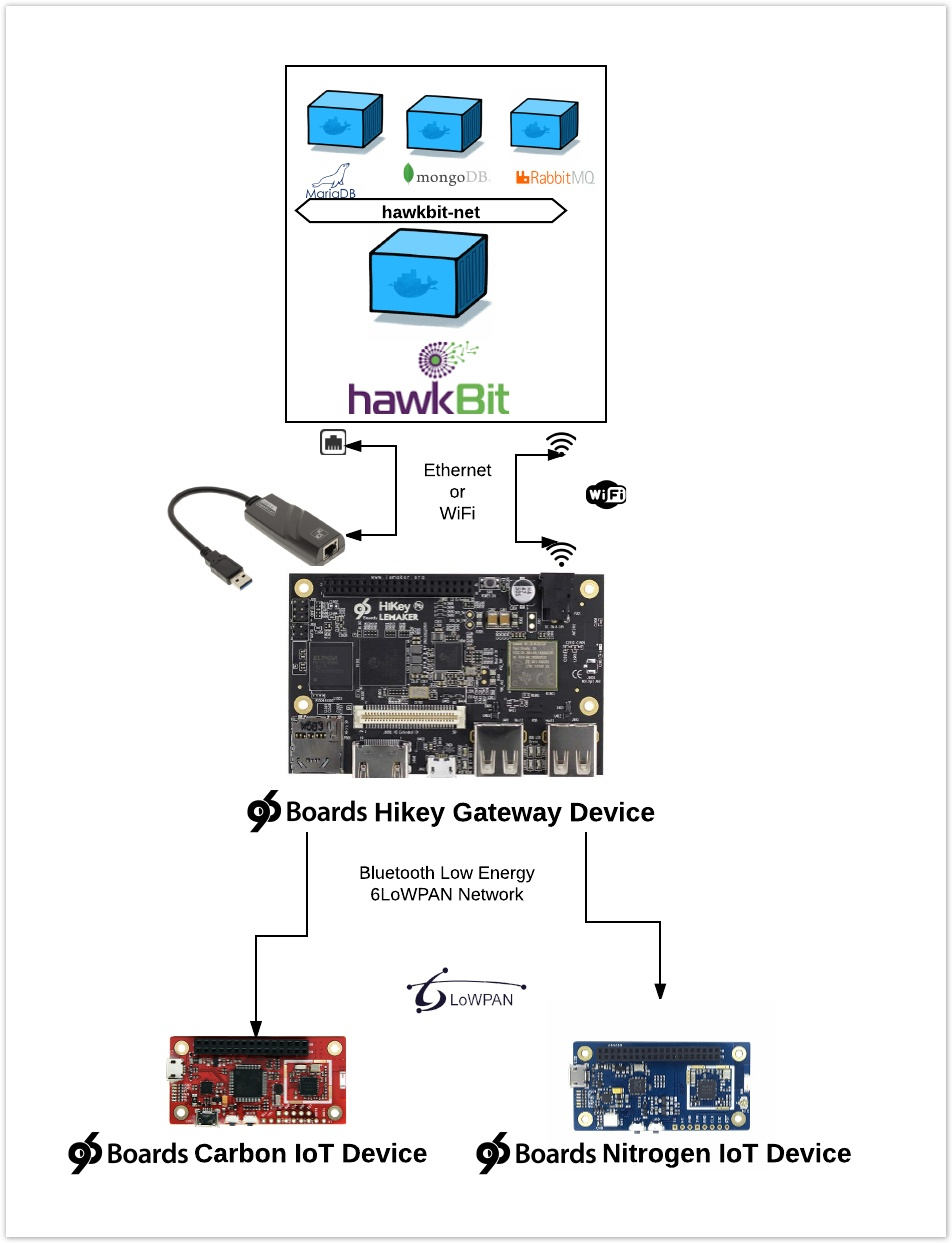
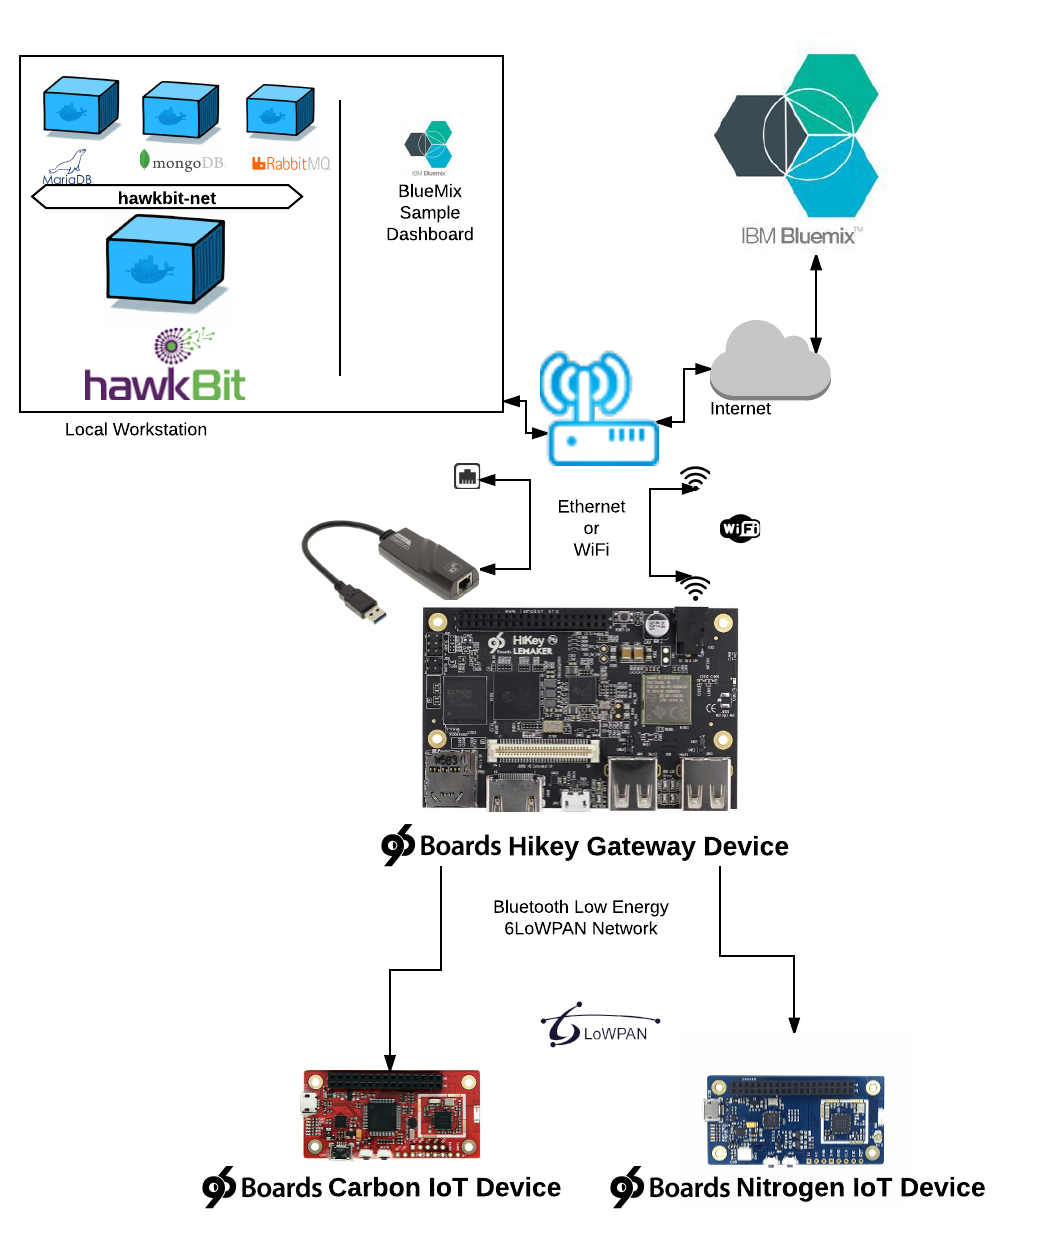
fota-demo: Add docs for Bluemix Integration

diff --git a/source/conf.py b/source/conf.py
@@ -58,9 +58,9 @@ author = 'Linaro, Ltd.'
 # built documents.
 #
 # The short X.Y version.
-version = '0.1'
+version = '0.2'
 # The full version, including alpha/beta/rc tags.
-release = '0.1'
+release = '0.2 - bud17-demo'
 
 # The language for content autogenerated by Sphinx. Refer to documentation
 # for a list of supported languages.

diff --git a/source/fota-demo/index.rst b/source/fota-demo/index.rst
@@ -12,8 +12,11 @@ Overview
 
 To package and release our efforts, we have built an end-to-end
 demonstration system comprising all of the typical components in an
-IoT system: IoT Devices, an IoT gateway and an IoT device management
-platform. In the System Setup section, you will find 3 guides that
+IoT system: IoT Devices, an IoT gateway, an IoT device management
+platform, integration (via MQTT) with a commercial IoT platform, 
+IBM Bluemix, and a Bluemix Sample Dashboard.
+.
+In the System Setup section, you will find guides that
 will walk you through configuring each of the components.
 
 **It is important that you complete each section before moving onto
@@ -92,6 +95,71 @@ To create this system, follow these sub-guides in order:
         - 96Boards Lemaker Hikey 2GB: http://www.96boards.org/product/hikey/
         - *(optional)* USB ethernet adapter
 
+4. Configure IBM Bluemix
+
+    You will need to setup and configure an account with IBM Bluemix.  This is
+    not trivial, however there are many documents available and you can 
+    get started at http://bluemix.com.  You will want to make sure you set up
+    and obtain the following items to enable Bluemix for reproducing the demo..
+
+    - API Key
+    - API Key Auth Token
+    - Organization ID
+
+5. Configure the Gateway to communicate with Bluemix
+
+    In this build of the Gateway, we enable the Mosquitto MQTT broker to store
+    and forward messages to Bluemix.
+
+    IBM Bluemix requires that each gateway device is registered with with an 
+    organization, API key & auth token.  The following instructions perform that 
+    registration and save the generated Bluemix device info in a bluemix.conf 
+    used by Mosquitto.  Perform this after installing the IoT Gateway image 
+    and bringing the device online (requires a working network connection).
+
+    To configure Mosquitto get the API and Organization from Bluemix and,  
+    enter the following::
+
+        API_KEY='<From Bluemix, API Key>'
+        API_TOKEN='<From Bluemix, API Key Auth Token>'
+        ORG_ID='<From Bluemix, Organization ID>'
+        sudo mosquitto-conf -ak $API_KEY -at $API_TOKEN -bo $ORG_ID -gdt hikey
+
+        sudo cat /etc/mosquitto/conf.d/bluemix.conf
+    
+6. Launch the Bluemix Sample Dashboard
+
+    Now that you have your devices and gateway connected to Bluemix, you can
+    launch our Bluemix Sample Dashboard to display the data being sent by the
+    IoT Devices.
+
+    First, get the repository for the demo dashboard::
+
+        git clone https://github.com/linaro-technologies/bud17-demo-dashboard
+        cd bud17-demo-dashboard
+
+    Next, configure the dashboard parameters to connect to Bluemix. 
+    To do this, create config/local-production.json and enter the right data::
+        
+        {
+            "bluemix": {
+                "org": "<Bluemix ORG ID>",
+                "id": "demo-application-name",
+                "auth-key": "<Bluemix Auth Key>",
+                "auth-token": "<Bluemix Auth Token>",
+                "deviceTypes": [
+                    "96b_carbon", "96b_nitrogen", "frdm_k64f"
+                ],
+                "deviceIds": {}
+            }
+        }
+
+    To run the dashboard locally enter the following::
+
+        docker build -t dashboard .
+        docker run -it -p 3030:3030 -e NODE_ENV="production" dashboard  
+    
+    Last step is to start a browser and view the dashboard at http://localhost:3030
 
 System Usage
 ------------

diff --git a/source/fota-demo/iot-gateway/96b_hikey.rst b/source/fota-demo/iot-gateway/96b_hikey.rst
@@ -43,15 +43,15 @@ Download the following reference platform components.
 
 UEFI release for HiKey (build 150)::
 
-    wget https://builds.linarotechnologies.org/End-to-end_IoT_system/17.02-preview/Hikey-Gateway/l-loader.bin
-    wget https://builds.linarotechnologies.org/End-to-end_IoT_system/17.02-preview/Hikey-Gateway/fip.bin
-    wget https://builds.linarotechnologies.org/End-to-end_IoT_system/17.02-preview/Hikey-Gateway/ptable-linux-8g.img
-    wget https://builds.linarotechnologies.org/End-to-end_IoT_system/17.02-preview/Hikey-Gateway/hisi-idt.py
+    wget https://builds.linarotechnologies.org/End-to-end_IoT_system/bud17-demo/Hikey-Gateway/l-loader.bin
+    wget https://builds.linarotechnologies.org/End-to-end_IoT_system/bud17-demo/Hikey-Gateway/fip.bin
+    wget https://builds.linarotechnologies.org/End-to-end_IoT_system/bud17-demo/Hikey-Gateway/ptable-linux-8g.img
+    wget https://builds.linarotechnologies.org/End-to-end_IoT_system/bud17-demo/Hikey-Gateway/hisi-idt.py
 
-Debian Stretch IoT Reference Platform Build for HiKey (build 45)::
+Debian Stretch IoT Reference Platform Build for HiKey (build 50)::
 
-    wget https://builds.linarotechnologies.org/End-to-end_IoT_system/17.02-preview/Hikey-Gateway/hikey-boot-linux-20170215-45.uefi.img.gz
-    wget https://builds.linarotechnologies.org/End-to-end_IoT_system/17.02-preview/Hikey-Gateway/hikey-rootfs-debian-stretch-iot-20170215-45.emmc.img.gz
+    wget https://builds.linarotechnologies.org/End-to-end_IoT_system/bud17-demo/Hikey-Gateway/hikey-boot-linux-20170301-50.uefi.img.gz
+    wget https://builds.linarotechnologies.org/End-to-end_IoT_system/bud17-demo/Hikey-Gateway/hikey-rootfs-debian-stretch-iot-20170301-50.emmc.img.gz
 
 Extract the .gz files::
 
@@ -81,8 +81,8 @@ Flash the software
     sudo python hisi-idt.py --img1=l-loader.bin
     sudo fastboot flash ptable ptable-linux-8g.img
     sudo fastboot flash fastboot fip.bin
-    sudo fastboot flash boot hikey-boot-linux-20170215-45.uefi.img
-    sudo fastboot flash system hikey-rootfs-debian-stretch-iot-20170215-45.emmc.img
+    sudo fastboot flash boot hikey-boot-linux-20170301-50.uefi.img
+    sudo fastboot flash system hikey-rootfs-debian-stretch-iot-20170301-50.emmc.img
 
 Boot the device
 ---------------
@@ -97,12 +97,6 @@ Some error messages are expected during the first boot:
 - Failed to start /etc/rc.local Compatibility.
 
 No error should be reported on following boots.
-
-.. warning::
-
-   At time of writing (Jan 23, 2017), HDMI must be unplugged when
-   booting. The issue is tracked in
-   https://bugs.linaro.org/show_bug.cgi?id=2886.
 
 You will automatically be logged in as root on the HiKey's serial console. You can now proceed to connect to the network for the first time.
 

diff --git a/source/fota-demo/iot-device/96b_carbon.rst b/source/fota-demo/iot-device/96b_carbon.rst
@@ -19,14 +19,14 @@ Using Released Binaries
 
 Download the binaries::
 
-    wget https://builds.linarotechnologies.org/End-to-end_IoT_system/17.02-preview/mcuboot-96b_carbon.bin
-    wget https://builds.linarotechnologies.org/End-to-end_IoT_system/17.02-preview/linaro_fota-96b_carbon.signed.bin
+    wget https://builds.linarotechnologies.org/End-to-end_IoT_system/bud17-demo/mcuboot-96b_carbon.bin
+    wget https://builds.linarotechnologies.org/End-to-end_IoT_system/bud17-demo/linaro_fota-96b_carbon.signed.bin
 
     # Choose the appropriate binary format for flashing the Carbon nRF51,
     # Depending on the requirements of your loader:
-    wget https://builds.linarotechnologies.org/End-to-end_IoT_system/17.02-preview/96b_carbon-nrf51.bin
-    wget https://builds.linarotechnologies.org/End-to-end_IoT_system/17.02-preview/96b_carbon-nrf51.elf
-    wget https://builds.linarotechnologies.org/End-to-end_IoT_system/17.02-preview/96b_carbon-nrf51.hex
+    wget https://builds.linarotechnologies.org/End-to-end_IoT_system/bud17-demo/96b_carbon-nrf51.bin
+    wget https://builds.linarotechnologies.org/End-to-end_IoT_system/bud17-demo/96b_carbon-nrf51.elf
+    wget https://builds.linarotechnologies.org/End-to-end_IoT_system/bud17-demo/96b_carbon-nrf51.hex
 
 Once you have the binaries, install the flashing tools on your system,
 and follow the instructions to flash binaries.

diff --git a/source/fota-demo/iot-device/96b_nitrogen.rst b/source/fota-demo/iot-device/96b_nitrogen.rst
@@ -19,8 +19,8 @@ Using Released Binaries
 
 Download the binaries::
 
-    wget https://builds.linarotechnologies.org/End-to-end_IoT_system/17.02-preview/mcuboot-96b_nitrogen.bin
-    wget https://builds.linarotechnologies.org/End-to-end_IoT_system/17.02-preview/linaro_fota-96b_nitrogen.signed.bin
+    wget https://builds.linarotechnologies.org/End-to-end_IoT_system/bud17-demo/mcuboot-96b_nitrogen.bin
+    wget https://builds.linarotechnologies.org/End-to-end_IoT_system/bud17-demo/linaro_fota-96b_nitrogen.signed.bin
 
 Once you have the binaries, install the flashing tool on your system,
 and follow the instructions to flash binaries.
